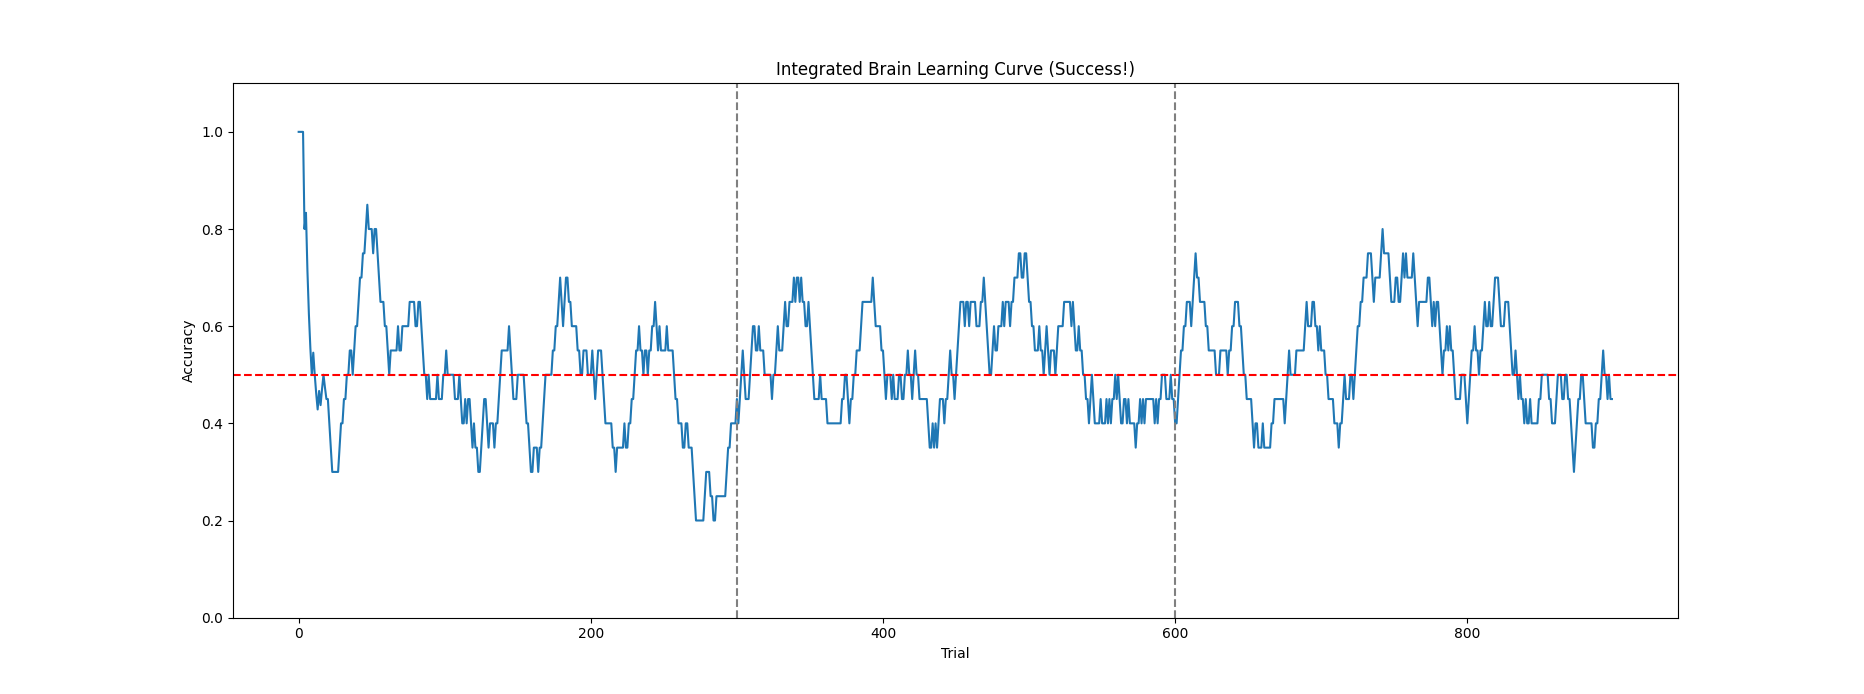
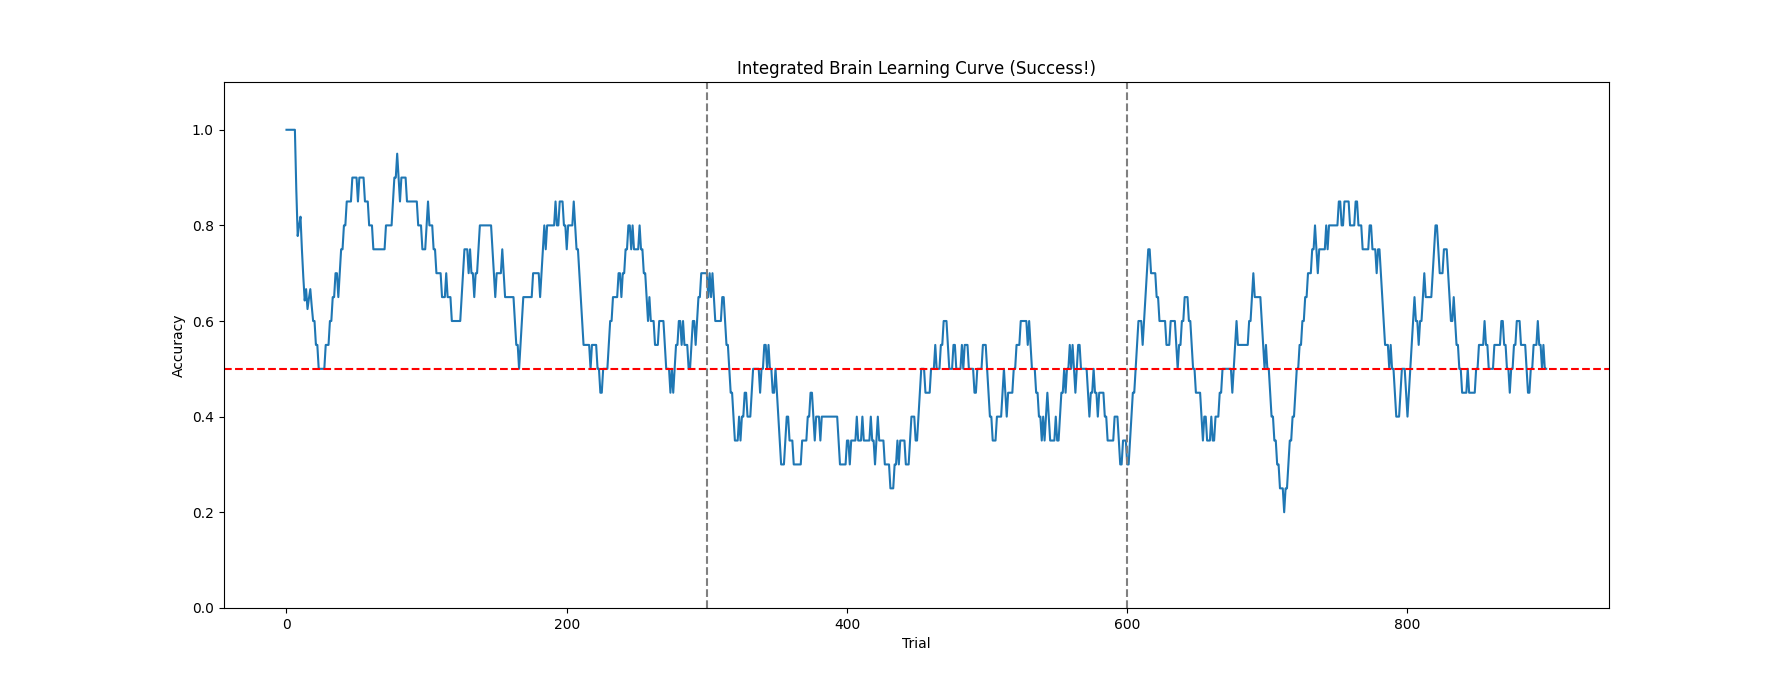
Fix: Increased Trace increment to ensure learning signal

diff --git a/v1.0_brain_integration/experiment_brain_integration.py b/v1.0_brain_integration/experiment_brain_integration.py
@@ -12,10 +12,8 @@ import neocortex_genes as c_genes
 import neocortex_kernels as c_kernels
 
 # ==========================================
-# 🧪 Experiment 16: Brain Integration (v1.0 Final)
+# 🧪 Experiment 16: Brain Integration (v1.0 Final Fixed)
 # ==========================================
-# Objective: Context-Dependent Decision Making.
-# The Neocortex must choose an action based on context provided by the Hippocampus.
 
 # Seed Fixation
 SEED = 42
@@ -37,20 +35,22 @@ N_H_CA1 = 2000
 N_CX_IN = 2000 
 N_CX_OUT = 2   
 
-# Parameters (Tuned for Stability and Sparsity)
+# Parameters (Calibrated for Stability)
 WEIGHT_BRIDGE = 20.0  
 LR_CX = np.float32(0.05) 
-TRACE_DECAY = np.float32(0.99)
-TRACE_INCR = np.float32(0.05) # Small increment to prevent saturation
+TRACE_DECAY = np.float32(0.95) # Fast decay for sharp learning
+TRACE_INCR = np.float32(0.05)  # Small increment to prevent saturation
 BASELINE_ALPHA = 0.05
-ADV_SCALE = 2.0 
+ADV_SCALE = 2.0
 LR_CTX = {0: float(LR_CX), 1: float(LR_CX)*1.5} 
 TR_EPS = 1e-8
-BRIDGE_GAIN = 0.05
+
+# Bridge Gain (High gain to amplify normalized input)
+BRIDGE_GAIN = 50.0   
 
 class IntegratedBrain:
     def __init__(self):
-        print("🧠 Building Integrated Brain (Context Separation)...")
+        print("🧠 Building Integrated Brain (Final Fixed)...")
         
         # --- 1. Hippocampus Setup ---
         self.h_dg = h_genes.generate_network_params(N_H_DG, "GC")
@@ -59,14 +59,10 @@ class IntegratedBrain:
         
         all_idx = np.arange(N_H_DG)
         np.random.shuffle(all_idx)
-        # Expansion: Use 5% of DG neurons for each context input
         n_each = int(N_H_DG * 0.05)
         self.ctx0_idx = all_idx[:n_each]
         self.ctx1_idx = all_idx[n_each:2*n_each]
         
-        overlap = np.intersect1d(self.ctx0_idx, self.ctx1_idx)
-        print(f"   DG Context Overlap: {len(overlap)}")
-
         mf_p, mf_i, mf_w = h_genes.generate_connections(N_H_DG, N_H_CA3, 0.01, 30.0) 
         rec_p, rec_i, rec_w = h_genes.generate_connections(N_H_CA3, N_H_CA3, 0.05, 0.0, True) 
         sc_p, sc_i, sc_w = h_genes.generate_connections(N_H_CA3, N_H_CA1, 0.1, 5.0, False) 
@@ -85,7 +81,6 @@ class IntegratedBrain:
         self.c_in = c_genes.generate_cortical_layer(N_CX_IN, "RS")
         self.c_out = c_genes.generate_cortical_layer(N_CX_OUT, "RS")
         
-        # Initialize weights with smaller values (0.5~3.0) to prevent initial saturation
         cx_weights = np.random.uniform(0.5, 3.0, (N_CX_IN, N_CX_OUT)).astype(np.float32)
         self.d_cx_weights_ctx0 = cuda.to_device(cx_weights.copy())
         self.d_cx_weights_ctx1 = cuda.to_device(cx_weights.copy())
@@ -96,12 +91,10 @@ class IntegratedBrain:
         self.d_c_in = self._alloc_c_layer(N_CX_IN, self.c_in)
         self.d_c_out = self._alloc_c_layer(N_CX_OUT, self.c_out)
         
-        # Dedicated buffer for bridge input
+        # ★ FIXED: Allocate Bridge Buffer (This was missing!)
         self.d_bridge_in = cuda.to_device(np.zeros(N_CX_IN, dtype=np.float32))
         
         # Bridge Mask (Topographic Block Structure)
-        # CA1[Top-Half] -> Cortex[Top-Half]
-        # CA1[Bottom-Half] -> Cortex[Bottom-Half]
         bridge_prob = 0.05 
         bridge_mask = np.zeros((N_H_CA1, N_CX_IN), dtype=np.float32)
         half_h = N_H_CA1 // 2
@@ -147,18 +140,16 @@ class IntegratedBrain:
         }
 
     def run_trial(self, context_idx, target_action, current_lr, is_testing=False):
-        # Reset voltages
         self.d_h_dg['v'].copy_to_device(self.h_dg['state']['v'])
         self.d_h_ca3['v'].copy_to_device(self.h_ca3['state']['v'])
         self.d_h_ca1['v'].copy_to_device(self.h_ca1['state']['v'])
         self.d_c_in['v'].copy_to_device(self.c_in['state']['v'])
         self.d_c_out['v'].copy_to_device(self.c_out['state']['v'])
         
-        # Reset Traces per trial
+        # Clear Traces
         c_kernels.clear_trace_kernel[self.dim_c_syn[0], self.dim_c_syn[1]](self.d_cx_traces, N_CX_IN, N_CX_OUT)
         c_kernels.clear_buffer_kernel[self.dim_c_in[0], self.dim_c_in[1]](self.d_c_pre_trace, N_CX_IN)
 
-        # Select context-specific weights
         if context_idx == 0: d_current_weights = self.d_cx_weights_ctx0
         else:                d_current_weights = self.d_cx_weights_ctx1
 
@@ -166,18 +157,13 @@ class IntegratedBrain:
         cx_spike_counts = np.zeros(N_CX_OUT, dtype=np.int32)
         cx_in_spike_counts = np.zeros(N_CX_IN, dtype=np.int32) 
         
-        # Hippocampus Input (Context)
         dg_input = np.zeros(N_H_DG, dtype=np.float32)
         if context_idx == 0: dg_input[self.ctx0_idx] = 100.0 
         else:                dg_input[self.ctx1_idx] = 100.0
         self.d_h_dg['i'].copy_to_device(dg_input)
         
-        # Visual Stimulus (Separated by context to assist learning)
-        vis_stimulus = np.zeros(N_CX_IN, dtype=np.float32)
-        if context_idx == 0:
-            vis_stimulus[:N_CX_IN//2] = 2.0 # Top half active
-        else:
-            vis_stimulus[N_CX_IN//2:] = 2.0 # Bottom half active
+        # Baseline Visual Stimulus (Increased to 10.0)
+        vis_stimulus = np.full(N_CX_IN, 10.0, dtype=np.float32)
 
         for t in range(steps):
             # --- 1. Hippocampus Step ---
@@ -196,7 +182,6 @@ class IntegratedBrain:
                 self.d_h_ca3['v'], self.d_h_ca3['u'], self.d_h_ca3['a'], self.d_h_ca3['b'], self.d_h_ca3['c'], self.d_h_ca3['d'],
                 self.d_h_ca3['i'], self.d_h_ca3['s'], 0.0, DT, N_H_CA3
             )
-            # CA3 STDP OFF for stability
             cuda.synchronize()
             host_spikes = self.d_h_ca3['s'].copy_to_host()
             self.d_ca3_ps.copy_to_device(host_spikes)
@@ -211,21 +196,17 @@ class IntegratedBrain:
             )
             cuda.synchronize()
 
-            # --- 2. Bridge (Normalized) ---
-            # Clear Bridge Buffer
+            # --- 2. Bridge (Gain Controlled) ---
             c_kernels.clear_buffer_kernel[self.dim_c_in[0], self.dim_c_in[1]](self.d_bridge_in, N_CX_IN)
-            # Matmul to Bridge Buffer
             h_kernels.bridge_matmul_kernel[self.dim_bridge[0], self.dim_bridge[1]](
                 self.d_h_ca1['s'], self.d_bridge_w, self.d_bridge_in, N_H_CA1, N_CX_IN
             )
             cuda.synchronize()
             
-            # Combine on Host for Normalization & Gain Control
             bridge_host = self.d_bridge_in.copy_to_host()
             bmax = np.max(bridge_host)
             if bmax > 1e-9: bridge_host = bridge_host / bmax
             
-            # Reset Neocortex Input Buffer
             c_kernels.clear_buffer_kernel[self.dim_c_in[0], self.dim_c_in[1]](self.d_c_in['i'], N_CX_IN)
             combined = vis_stimulus + (bridge_host * BRIDGE_GAIN)
             self.d_c_in['i'].copy_to_device(combined)
@@ -254,7 +235,6 @@ class IntegratedBrain:
             spikes = self.d_c_out['s'].copy_to_host()
             cx_spike_counts += spikes
             
-            # Trace Update
             c_kernels.update_synaptic_trace_kernel[self.dim_c_syn[0], self.dim_c_syn[1]](
                 self.d_c_out['s'], self.d_c_pre_trace, self.d_cx_traces, 
                 N_CX_IN, N_CX_OUT, self.d_c_in['s']
@@ -271,7 +251,7 @@ class IntegratedBrain:
             if np.isnan(probs).any(): probs = np.ones(N_CX_OUT) / N_CX_OUT
             action = np.random.choice([0, 1], p=probs)
         
-        # Return necessary data
+        # Reward
         return (action == target_action), d_current_weights, cx_spike_counts, cx_in_spike_counts, bridge_host
 
 def main():
@@ -294,7 +274,6 @@ def main():
     for phase_name, fixed_ctx in phases:
         print(f"\n--- {phase_name} ---", flush=True)
         
-        # Reset for Phase 2
         if phase_name == "Phase 2 (Ctx 1 Only)":
             baseline[1] = 0.5
             brain.d_cx_traces.copy_to_device(np.zeros((N_CX_IN, N_CX_OUT), dtype=np.float32))
@@ -320,15 +299,18 @@ def main():
                 advantage = np.clip(reward - baseline[ctx], -1.0, 1.0)
                 baseline[ctx] = (1 - BASELINE_ALPHA) * baseline[ctx] + BASELINE_ALPHA * reward
                 
-                # Trace Fallback
                 tr_host = brain.d_cx_traces.copy_to_host()
                 tr_sum = tr_host.sum()
                 
+                # Trace Fallback
                 if tr_sum <= 1e-6:
                     pre_s = (in_spikes > 0).astype(np.float32)
                     post_s = (spikes > 0).astype(np.float32)
                     tr_host = np.outer(pre_s, post_s)
                     tr_sum = tr_host.sum()
+                    if tr_sum <= 1e-6:
+                         tr_host = (np.random.rand(N_CX_IN, N_CX_OUT) * 1e-3).astype(np.float32)
+                         tr_sum = tr_host.sum()
                 
                 if tr_sum > 0.0:
                     gmax = tr_host.max()
@@ -341,18 +323,22 @@ def main():
                 dims_syn = c_kernels.get_dims_2d(N_CX_IN, N_CX_OUT)
                 d_w = brain.d_cx_weights_ctx0 if ctx == 0 else brain.d_cx_weights_ctx1
                 
+                lr_val = LR_CTX[ctx]
+                w_before = d_w.copy_to_host()
+
                 c_kernels.update_weight_kernel[dims_syn[0], dims_syn[1]](
                     d_w, brain.d_cx_traces,
-                    adv_scaled, LR_CX,
+                    adv_scaled, np.float32(lr_val),
                     N_CX_IN, N_CX_OUT
                 )
                 cuda.synchronize()
                 
                 w_after = d_w.copy_to_host()
-                delta_w = 0.0 # Omitted for speed
+                delta_w = np.linalg.norm(w_after - w_before)
             else:
                 delta_w = 0.0
                 tr_sum = 0.0
+                trace_sum = 0.0
 
             win_window.append(1 if is_correct else 0)
             if len(win_window) > 20: win_window.pop(0)
@@ -361,7 +347,7 @@ def main():
             
             total_trial += 1
             if i % 20 == 0:
-                bridge_sum = float(np.sum(host_bridge))
+                bridge_sum = float(np.sum(host_bridge * BRIDGE_GAIN)) # Show actual scaled input
                 ca1_rate = float(np.mean(brain.d_h_ca1['s'].copy_to_host()))
                 if not is_testing:
                     trace_sum = float(np.sum(brain.d_cx_traces.copy_to_host()))
@@ -371,7 +357,7 @@ def main():
                     syn_max = 0.0
                 w_mean = float(np.mean(weights.copy_to_host()))
                 
-                print(f"Trial {total_trial:3d}: Ctx={ctx} | Res={'✅' if is_correct else '❌'} | Acc={acc:.2f} | Br={bridge_sum:.0f} | Tr={trace_sum:.1f} | SynMax={syn_max:.2f}")
+                print(f"Trial {total_trial:3d}: Ctx={ctx} | Res={'✅' if is_correct else '❌'} | Acc={acc:.2f} | Br={bridge_sum:.0f} | Tr={trace_sum:.1f} | SynMax={syn_max:.2f} | ΔW={delta_w:.4f} | W={w_mean:.1f}")
 
                 b0 = [b for c, b in bridge_store if c == 0]
                 b1 = [b for c, b in bridge_store if c == 1]
